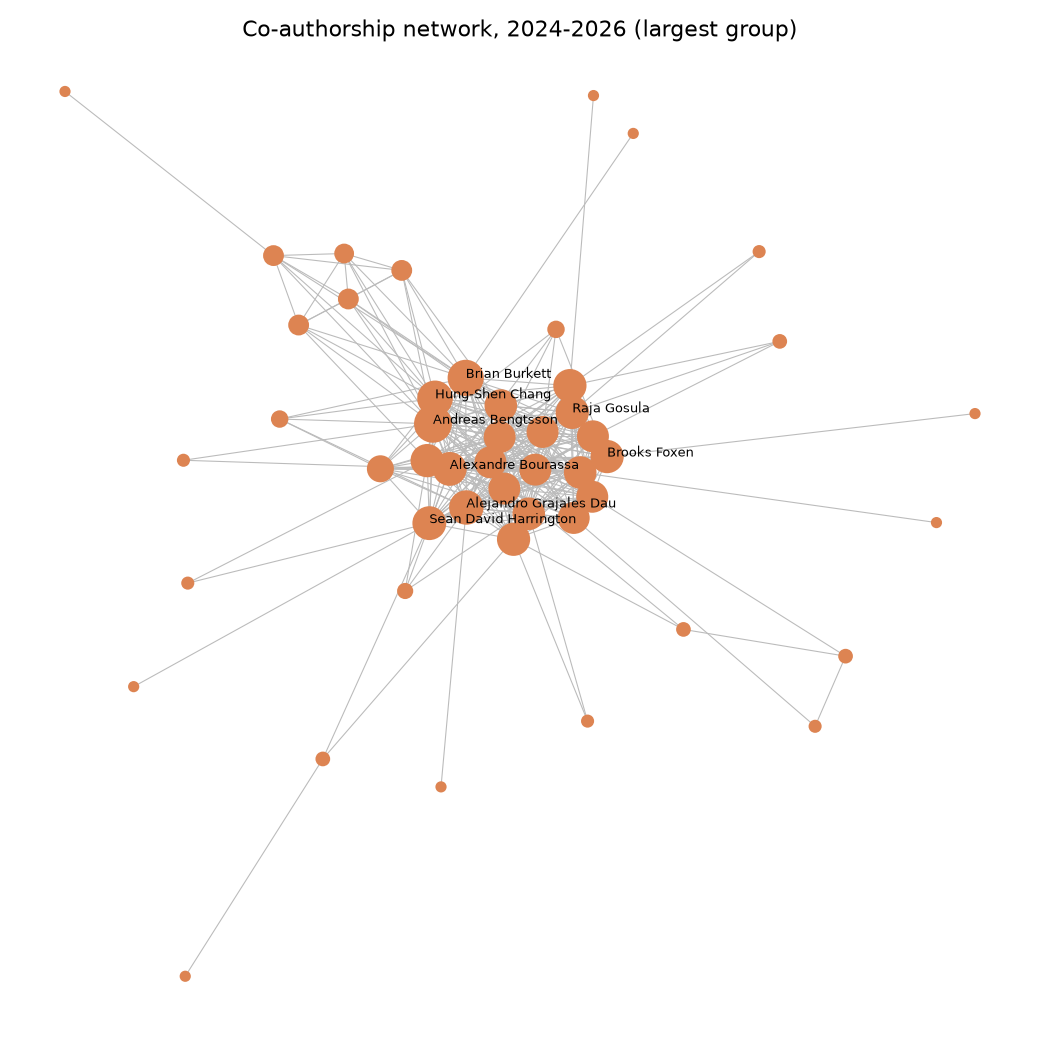
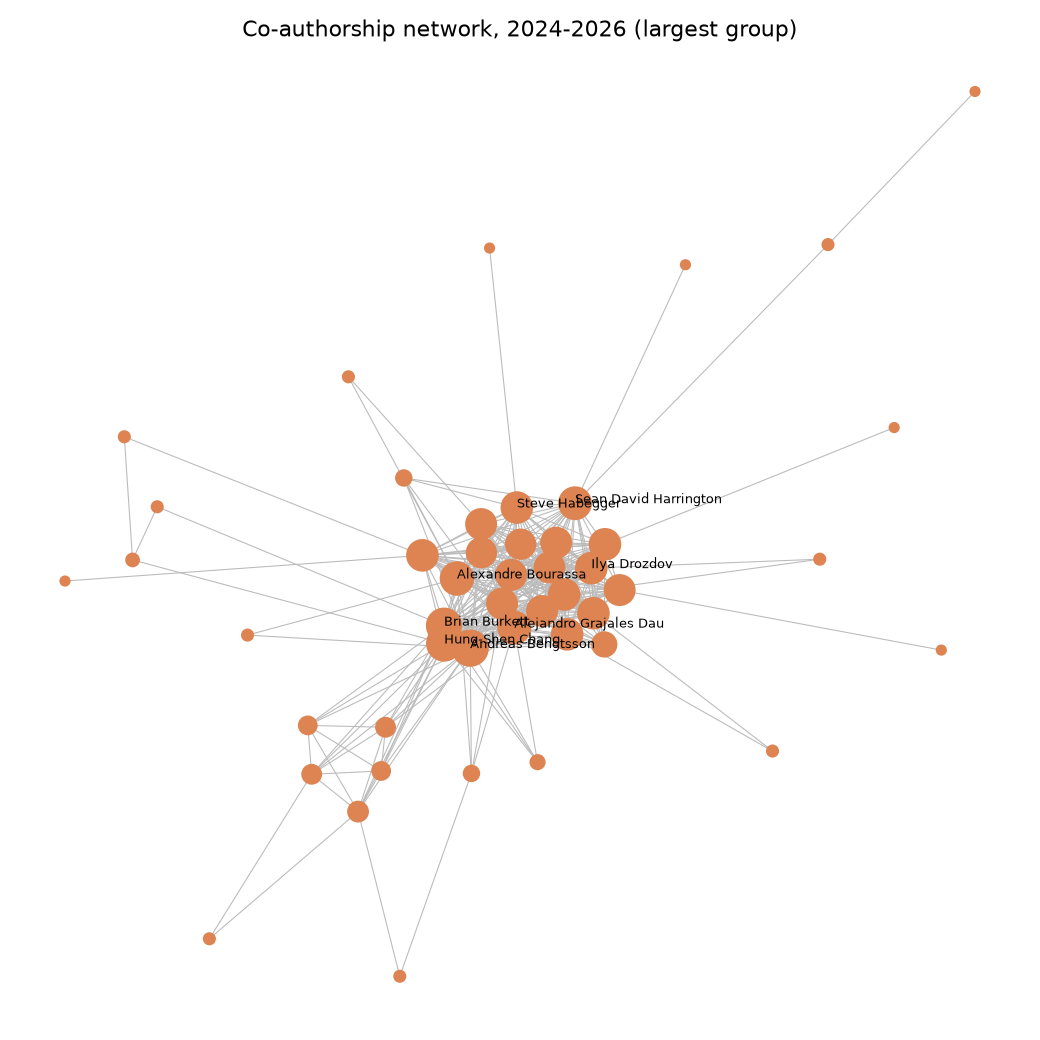
Weekly data snapshot: openalex (2026-10-18)

diff --git a/docs/LATEST.md b/docs/LATEST.md
@@ -1,67 +1,67 @@
 # Weekly snapshot
 
-_Generated 2026-10-11 10:44. Corpus: 17,442 papers, 70,247 authors,
-1,401 topics, publication years 2023-2026._
+_Generated 2026-10-18 08:47. Corpus: 17,822 papers, 71,472 authors,
+1,405 topics, publication years 2023-2026._
 
 ![papers per year](charts/papers_per_year.png)
 
 ## Emerging topic pairs
 | itemset | first_window | first_support | last_window | last_support | change |
 |---|---|---|---|---|---|
-| Natural Language Processing Techniques | Topic Modeling | 2023 | 0.0381 | 2024 | 0.0403 | 0.0022 |
-| Artificial Intelligence in Healthcare and Education | Machine Learning in Healthcare | 2023 | 0.0157 | 2024 | 0.0176 | 0.0019 |
-| Machine Learning in Healthcare | Topic Modeling | 2023 | 0.0115 | 2024 | 0.013 | 0.0015 |
-| Energy Load and Power Forecasting | Photovoltaic System Optimization Techniques | 2023 | 0.0156 | 2024 | 0.0168 | 0.0012 |
-| Energy Load and Power Forecasting | Photovoltaic System Optimization Techniques | Solar Radiation and Photovoltaics | 2023 | 0.0156 | 2024 | 0.0168 | 0.0012 |
-| Energy Load and Power Forecasting | Solar Radiation and Photovoltaics | 2023 | 0.0224 | 2024 | 0.0235 | 0.0012 |
-| AI in Service Interactions | Technology Adoption and User Behaviour | 2023 | 0.0125 | 2024 | 0.0135 | 0.0011 |
-| Artificial Intelligence in Healthcare and Education | Explainable Artificial Intelligence (XAI) | 2023 | 0.0138 | 2024 | 0.0148 | 0.0011 |
-| AI in cancer detection | Brain Tumor Detection and Classification | 2023 | 0.0092 | 2024 | 0.0102 | 0.001 |
-| Artificial Intelligence in Healthcare and Education | Radiomics and Machine Learning in Medical Imaging | 2023 | 0.0063 | 2024 | 0.0072 | 0.001 |
+| Natural Language Processing Techniques | Topic Modeling | 2023 | 0.0376 | 2024 | 0.0399 | 0.0023 |
+| Artificial Intelligence in Healthcare and Education | Machine Learning in Healthcare | 2023 | 0.0155 | 2024 | 0.0173 | 0.0018 |
+| Machine Learning in Healthcare | Topic Modeling | 2023 | 0.0113 | 2024 | 0.0128 | 0.0015 |
+| Energy Load and Power Forecasting | Photovoltaic System Optimization Techniques | 2023 | 0.0155 | 2024 | 0.0168 | 0.0013 |
+| Energy Load and Power Forecasting | Photovoltaic System Optimization Techniques | Solar Radiation and Photovoltaics | 2023 | 0.0155 | 2024 | 0.0168 | 0.0013 |
+| Energy Load and Power Forecasting | Solar Radiation and Photovoltaics | 2023 | 0.0223 | 2024 | 0.0235 | 0.0012 |
+| AI in Service Interactions | Technology Adoption and User Behaviour | 2023 | 0.0122 | 2024 | 0.0133 | 0.001 |
+| Photovoltaic System Optimization Techniques | Solar Radiation and Photovoltaics | 2023 | 0.0243 | 2024 | 0.0252 | 0.001 |
+| Artificial Intelligence in Healthcare and Education | Explainable Artificial Intelligence (XAI) | 2023 | 0.0137 | 2024 | 0.0147 | 0.001 |
+| AI in Service Interactions | Online Learning and Analytics | 2023 | 0.0066 | 2024 | 0.0075 | 0.0009 |
 
 ![lifecycles](charts/pattern_lifecycles.png)
 
 ## Declining topic pairs
 | itemset | first_window | first_support | last_window | last_support | change |
 |---|---|---|---|---|---|
-| Quantum Computing Algorithms and Architecture | Quantum Information and Cryptography | 2023 | 0.0576 | 2024 | 0.0548 | -0.0027 |
-| Quantum Computing Algorithms and Architecture | Quantum and electron transport phenomena | 2023 | 0.0139 | 2024 | 0.0122 | -0.0017 |
-| Domain Adaptation and Few-Shot Learning | Multimodal Machine Learning Applications | 2023 | 0.0088 | 2024 | 0.0072 | -0.0015 |
-| Quantum Information and Cryptography | Quantum and electron transport phenomena | 2023 | 0.0135 | 2024 | 0.0121 | -0.0014 |
-| Quantum Computing Algorithms and Architecture | Quantum Information and Cryptography | Quantum and electron transport phenomena | 2023 | 0.0119 | 2024 | 0.0105 | -0.0013 |
-| Advanced Multi-Objective Optimization Algorithms | Evolutionary Algorithms and Applications | 2023 | 0.0108 | 2024 | 0.0095 | -0.0013 |
-| Advanced Multi-Objective Optimization Algorithms | Evolutionary Algorithms and Applications | Metaheuristic Optimization Algorithms Research | 2023 | 0.0104 | 2024 | 0.0091 | -0.0013 |
-| Adversarial Robustness in Machine Learning | Anomaly Detection Techniques and Applications | 2023 | 0.0078 | 2024 | 0.0066 | -0.0012 |
-| Evolutionary Algorithms and Applications | Metaheuristic Optimization Algorithms Research | 2023 | 0.0194 | 2024 | 0.0181 | -0.0012 |
-| AI in cancer detection | Digital Imaging for Blood Diseases | 2023 | 0.0088 | 2024 | 0.0078 | -0.001 |
+| Quantum Computing Algorithms and Architecture | Quantum Information and Cryptography | 2023 | 0.058 | 2024 | 0.0555 | -0.0025 |
+| Quantum Computing Algorithms and Architecture | Quantum and electron transport phenomena | 2023 | 0.0137 | 2024 | 0.012 | -0.0017 |
+| Quantum Information and Cryptography | Quantum and electron transport phenomena | 2023 | 0.0133 | 2024 | 0.0119 | -0.0014 |
+| Domain Adaptation and Few-Shot Learning | Multimodal Machine Learning Applications | 2023 | 0.0088 | 2024 | 0.0074 | -0.0014 |
+| Advanced Multi-Objective Optimization Algorithms | Evolutionary Algorithms and Applications | 2023 | 0.0106 | 2024 | 0.0093 | -0.0013 |
+| Advanced Multi-Objective Optimization Algorithms | Evolutionary Algorithms and Applications | Metaheuristic Optimization Algorithms Research | 2023 | 0.0102 | 2024 | 0.009 | -0.0013 |
+| Evolutionary Algorithms and Applications | Metaheuristic Optimization Algorithms Research | 2023 | 0.0191 | 2024 | 0.0178 | -0.0013 |
+| Quantum Computing Algorithms and Architecture | Quantum Information and Cryptography | Quantum and electron transport phenomena | 2023 | 0.0117 | 2024 | 0.0103 | -0.0013 |
+| Adversarial Robustness in Machine Learning | Anomaly Detection Techniques and Applications | 2023 | 0.0078 | 2024 | 0.0066 | -0.0011 |
+| Advanced Multi-Objective Optimization Algorithms | Metaheuristic Optimization Algorithms Research | 2023 | 0.0206 | 2024 | 0.0195 | -0.0011 |
 
 ## Strongest patterns in 2024-2026
 | itemset | k | support_count | n_tx | support |
 |---|---|---|---|---|
-| Quantum Computing Algorithms and Architecture | Quantum Information and Cryptography | 2 | 750 | 13679 | 0.054828569339864026 |
-| AI in cancer detection | Radiomics and Machine Learning in Medical Imaging | 2 | 622 | 13679 | 0.04547116017252723 |
-| Natural Language Processing Techniques | Topic Modeling | 2 | 551 | 13679 | 0.0402807222750201 |
-| Photovoltaic System Optimization Techniques | Solar Radiation and Photovoltaics | 2 | 344 | 13679 | 0.02514803713721763 |
-| Energy Load and Power Forecasting | Solar Radiation and Photovoltaics | 2 | 322 | 13679 | 0.023539732436581622 |
-| Cryptography and Data Security | Privacy-Preserving Technologies in Data | 2 | 320 | 13679 | 0.023393522918341986 |
-| Quantum Information and Cryptography | Quantum Mechanics and Applications | 2 | 283 | 13679 | 0.02068864683090869 |
-| AI in Service Interactions | Digital Marketing and Social Media | 2 | 273 | 13679 | 0.019957599239710504 |
-| Advanced Multi-Objective Optimization Algorithms | Metaheuristic Optimization Algorithms Research | 2 | 271 | 13679 | 0.019811389721470868 |
-| Anomaly Detection Techniques and Applications | Network Security and Intrusion Detection | 2 | 249 | 13679 | 0.018203085020834855 |
+| Quantum Computing Algorithms and Architecture | Quantum Information and Cryptography | 2 | 778 | 14030 | 0.05545260156806842 |
+| AI in cancer detection | Radiomics and Machine Learning in Medical Imaging | 2 | 646 | 14030 | 0.04604419101924448 |
+| Natural Language Processing Techniques | Topic Modeling | 2 | 560 | 14030 | 0.03991446899501069 |
+| Photovoltaic System Optimization Techniques | Solar Radiation and Photovoltaics | 2 | 354 | 14030 | 0.025231646471846045 |
+| Energy Load and Power Forecasting | Solar Radiation and Photovoltaics | 2 | 330 | 14030 | 0.023521026372059873 |
+| Cryptography and Data Security | Privacy-Preserving Technologies in Data | 2 | 324 | 14030 | 0.02309337134711333 |
+| Quantum Information and Cryptography | Quantum Mechanics and Applications | 2 | 291 | 14030 | 0.02074126870990734 |
+| AI in Service Interactions | Digital Marketing and Social Media | 2 | 278 | 14030 | 0.019814682822523164 |
+| Advanced Multi-Objective Optimization Algorithms | Metaheuristic Optimization Algorithms Research | 2 | 274 | 14030 | 0.019529579472558803 |
+| Evolutionary Algorithms and Applications | Metaheuristic Optimization Algorithms Research | 2 | 250 | 14030 | 0.01781895937277263 |
 
 ## Collaboration network, 2024-2026
 | author | collaborators | joint_papers |
 |---|---|---|
-| Andreas Bengtsson | 32 | 165 |
+| Andreas Bengtsson | 31 | 161 |
 | Brian Burkett | 29 | 146 |
-| Hung-Shen Chang | 28 | 142 |
-| Alejandro Grajales Dau | 26 | 131 |
-| Alexandre Bourassa | 25 | 129 |
+| Hung-Shen Chang | 29 | 146 |
+| Alexandre Bourassa | 26 | 133 |
+| Alejandro Grajales Dau | 25 | 127 |
 | Sean David Harrington | 25 | 122 |
-| Agustín Di Paolo | 24 | 118 |
-| Raja Gosula | 24 | 118 |
-| Brooks Foxen | 24 | 117 |
-| Michael Broughton | 24 | 117 |
+| Ilya Drozdov | 23 | 114 |
+| Joseph C. Bardin | 23 | 114 |
+| M. Ansmann | 23 | 114 |
+| Raja Gosula | 23 | 114 |
 
 ![network](charts/coauthor_network.png)
 
